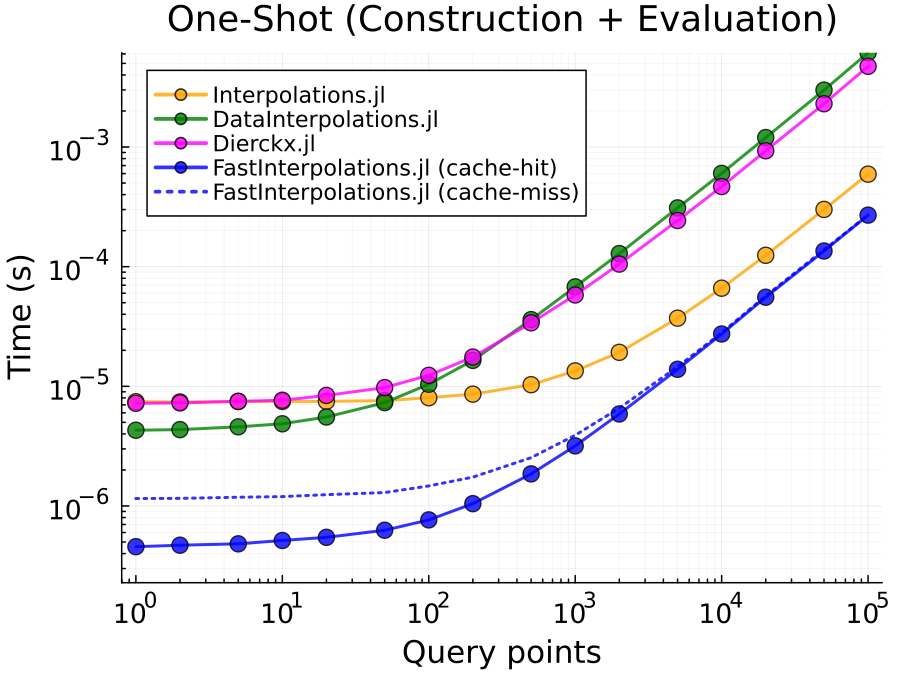
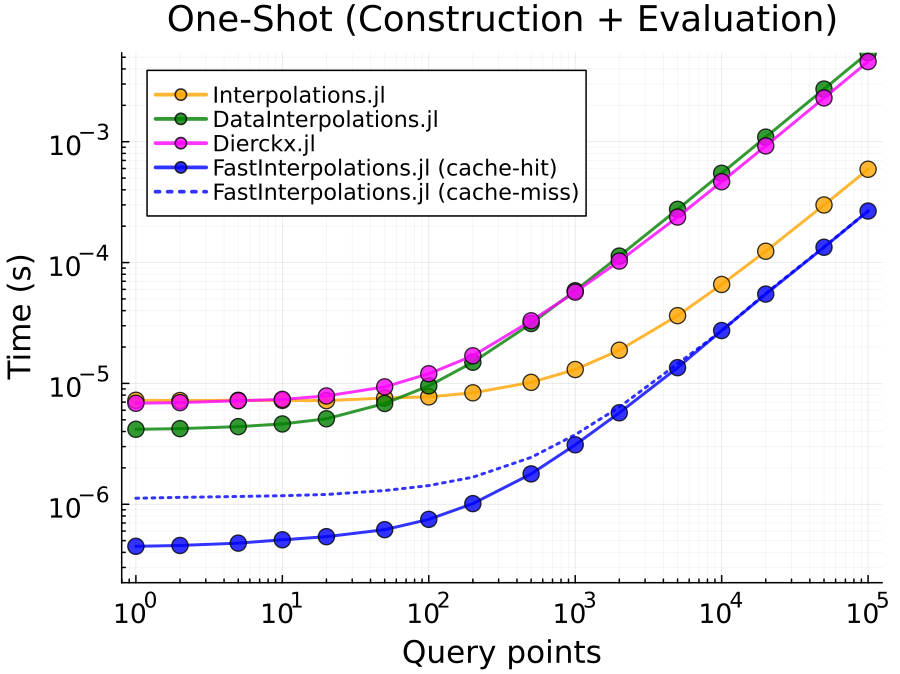
feat: bump version to 0.2.7 and update benchmark results in README

diff --git a/README.md b/README.md
@@ -83,13 +83,13 @@ For detailed usage and performance trade-offs, see the [API Selection Guide](htt
 Benchmark comparison against [Interpolations.jl](https://github.com/JuliaMath/Interpolations.jl), [DataInterpolations.jl](https://github.com/SciML/DataInterpolations.jl), and [Dierckx.jl](https://github.com/JuliaMath/Dierckx.jl) for **cubic spline interpolation**.
 <!-- BENCHMARK_VERSIONS_START -->
 > **Env:** Local · macOS 15.7.3 · Apple M1 Pro · Julia 1.12.4<br>
-> **Pkg:** FastInterpolations (v0.2.6) · Interpolations (v0.16.2) · DataInterpolations (v8.9.0) · Dierckx (v0.5.4)
+> **Pkg:** FastInterpolations (v0.2.7) · Interpolations (v0.16.2) · DataInterpolations (v8.9.0) · Dierckx (v0.5.4)
 <!-- BENCHMARK_VERSIONS_END -->
 
 ![One-Shot](docs/images/benchmark_oneshot_detail.png)
 
 <!-- BENCHMARK_SPEEDUP_START -->
-**Speedup:** (2.2 ~ 16.3)× vs `Interpolations.jl` · (9.3 ~ 22.8)× vs `DataInterpolations.jl` · (14.9 ~ 18.3)× vs `Dierckx.jl`
+**Speedup:** (2.2 ~ 16.2)× vs `Interpolations.jl` · (9.1 ~ 20.4)× vs `DataInterpolations.jl` · (14.5 ~ 18.5)× vs `Dierckx.jl`
 <!-- BENCHMARK_SPEEDUP_END -->
 
 One-shot (construction + evaluation) time per call with fixed grid size $n=100$. `FastInterpolations.jl` is significantly faster even on the first call (cache-miss), and becomes even faster on subsequent calls (cache-hit).
